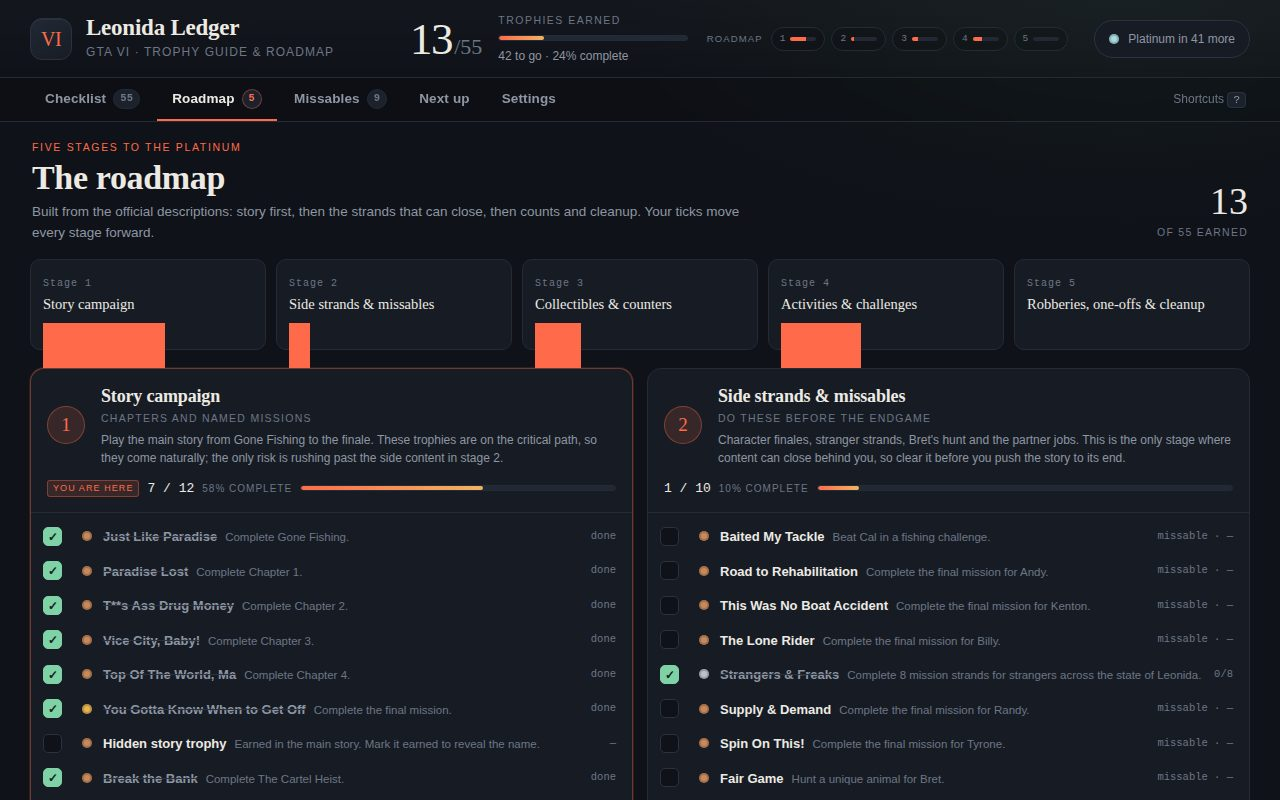
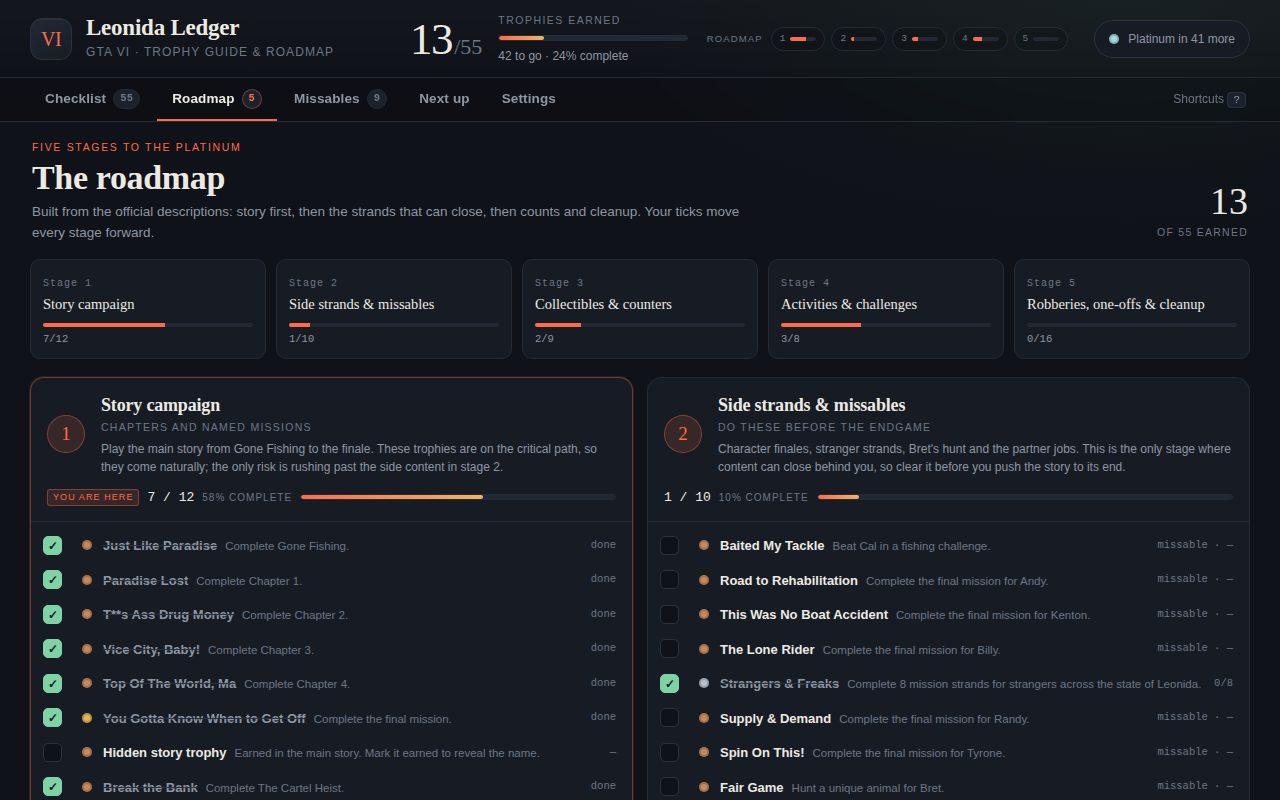
trophy guide: fix stage-rail bar display, re-shoot roadmap

diff --git a/app/style.css b/app/style.css
@@ -647,7 +647,7 @@ html[data-theme='parchment'] .btn-primary { color: #fff8f0; }
 .rail-item.is-done { border-color: var(--good-soft); background: var(--good-soft); }
 .rail-k { font-family: var(--mono); font-size: 10px; color: var(--muted-2); letter-spacing: 0.1em; }
 .rail-t { display: block; font-family: var(--serif); font-size: 14.5px; margin: 2px 0 7px; }
-.rail-bar { height: 4px; border-radius: 99px; background: var(--panel-3); overflow: hidden; }
+.rail-bar { display: block; height: 4px; border-radius: 99px; background: var(--panel-3); overflow: hidden; }
 .rail-bar > i { display: block; height: 100%; background: var(--accent); }
 .rail-n { display: block; margin-top: 5px; font-size: 10.5px; color: var(--muted); font-family: var(--mono); }
 
